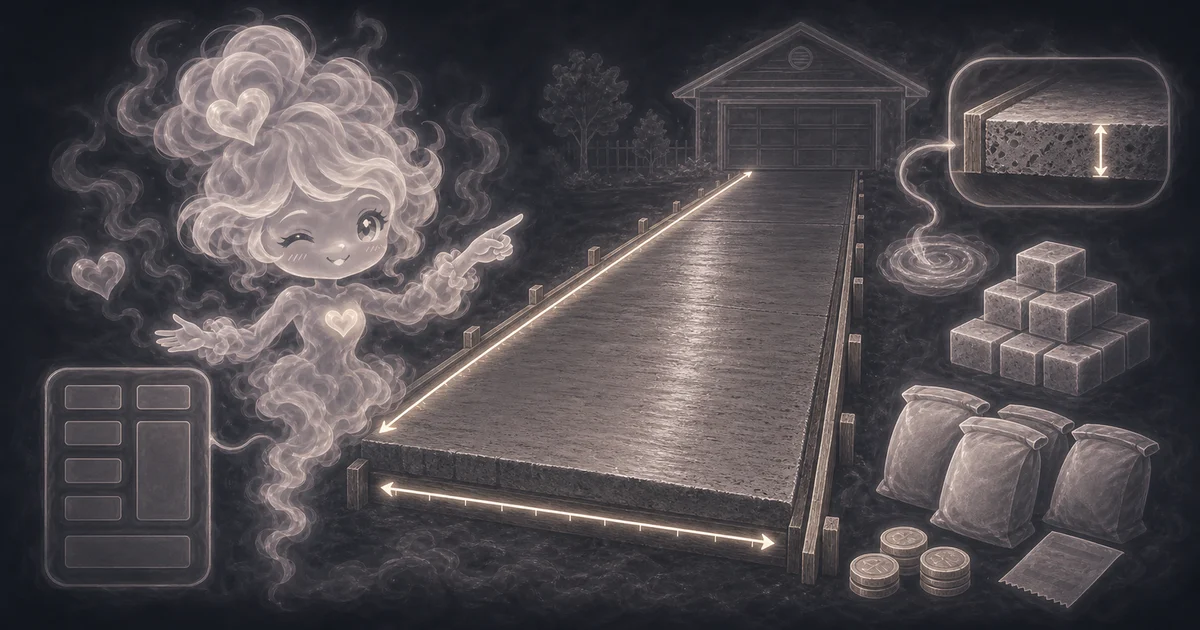
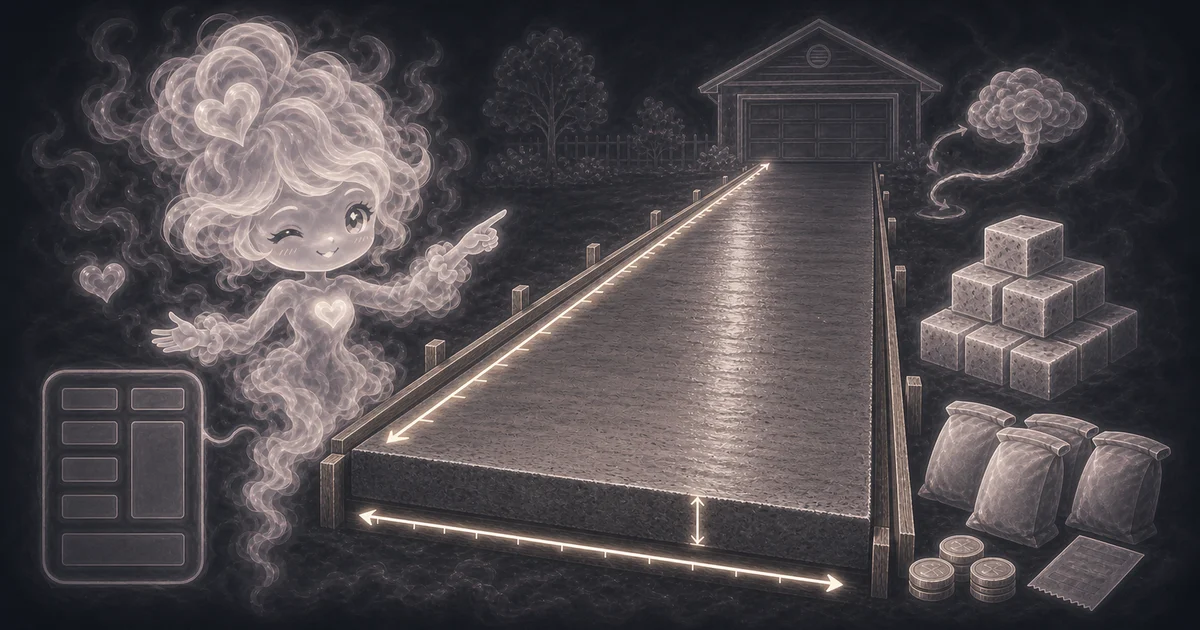
Fix driveway art and add concrete batch images

diff --git a/src/data/toolArtManifest.ts b/src/data/toolArtManifest.ts
@@ -1986,8 +1986,8 @@ export const toolArtManifest = [
     "alt": "Smoke-style kawaii mascot using visual cues for Concrete Footing Calculator in the Home & Projects category.",
     "caption": "A smoke-kawaii visual for the Concrete Footing Calculator tool page.",
     "prompt": "Create one unique G-rated chibi/kawaii image using the established Access Free Tools smoke mascot: a translucent pale grey-white smoky chibi girl with soft wispy hair, expressive manga eyes, tiny hands, a dress-like smoke body, a small heart-shaped chest glow, and a lower floating smoke tail. The mascot is actively presenting the Concrete Footing Calculator as a usable browser utility. The mascot should match the existing approved house style: soft charcoal/dark-slate background, hand-painted luminous smoke lines, gentle blush, white-pink-grey glow, and no purple ghost/spirit redesign. Show the full body character inside the frame, including all hair, smoky wisps, hands, props, and the lower floating smoke tail, with generous padding so nothing is cropped off. Use no readable text, no logos, no brand names, no watermark, no sexualized styling, and no generic abstract fog-only composition. Research the exact tool before generating: use visual details from its real inputs, outputs, formula/logic, examples, and guide notes, not only broad category symbols. The image must clearly represent this specific tool to someone comparing it with nearby related tools. Use visual hints for Home & Projects: house outlines, rulers, buckets, and project material shapes. Specific page concept: Estimate concrete volume and bag counts for straight rectangular footings.. Composition must be distinct for the tool page and usable as a 1200 by 630 web image. The result must look like an intentional character illustration, not a blurry background texture.",
-    "status": "queued",
-    "qaStatus": "not-started"
+    "status": "approved",
+    "qaStatus": "approved"
   },
   {
     "slug": "concrete-footing-calculator",
@@ -2002,8 +2002,8 @@ export const toolArtManifest = [
     "alt": "Smoke-style kawaii mascot explaining Concrete Footing Calculator with concrete footing shapes and guide notes.",
     "caption": "A companion smoke-kawaii visual for the Concrete Footing Calculator guide.",
     "prompt": "Create one unique G-rated chibi/kawaii image using the established Access Free Tools smoke mascot: a translucent pale grey-white smoky chibi girl with soft wispy hair, expressive manga eyes, tiny hands, a dress-like smoke body, a small heart-shaped chest glow, and a lower floating smoke tail. The mascot is explaining the Concrete Footing Calculator concept like a simple visual guide. The mascot should match the existing approved house style: soft charcoal/dark-slate background, hand-painted luminous smoke lines, gentle blush, white-pink-grey glow, and no purple ghost/spirit redesign. Show the full body character inside the frame, including all hair, smoky wisps, hands, props, and the lower floating smoke tail, with generous padding so nothing is cropped off. Use no readable text, no logos, no brand names, no watermark, no sexualized styling, and no generic abstract fog-only composition. Research the exact tool before generating: use visual details from its real inputs, outputs, formula/logic, examples, and guide notes, not only broad category symbols. The image must clearly represent this specific tool to someone comparing it with nearby related tools. Use visual hints for Home & Projects: house outlines, rulers, buckets, and project material shapes. Specific page concept: Estimate concrete volume and bag counts for straight rectangular footings.. Composition must be distinct for the guide/blog page and usable as a 1200 by 630 web image. The result must look like an intentional character illustration, not a blurry background texture.",
-    "status": "queued",
-    "qaStatus": "not-started"
+    "status": "approved",
+    "qaStatus": "approved"
   },
   {
     "slug": "concrete-reinforcing-mesh-calculator",
@@ -2018,8 +2018,8 @@ export const toolArtManifest = [
     "alt": "Smoke-style kawaii mascot using visual cues for Concrete Mesh Calculator in the Home & Projects category.",
     "caption": "A smoke-kawaii visual for the Concrete Mesh Calculator tool page.",
     "prompt": "Create one unique G-rated chibi/kawaii image using the established Access Free Tools smoke mascot: a translucent pale grey-white smoky chibi girl with soft wispy hair, expressive manga eyes, tiny hands, a dress-like smoke body, a small heart-shaped chest glow, and a lower floating smoke tail. The mascot is actively presenting the Concrete Mesh Calculator as a usable browser utility. The mascot should match the existing approved house style: soft charcoal/dark-slate background, hand-painted luminous smoke lines, gentle blush, white-pink-grey glow, and no purple ghost/spirit redesign. Show the full body character inside the frame, including all hair, smoky wisps, hands, props, and the lower floating smoke tail, with generous padding so nothing is cropped off. Use no readable text, no logos, no brand names, no watermark, no sexualized styling, and no generic abstract fog-only composition. Research the exact tool before generating: use visual details from its real inputs, outputs, formula/logic, examples, and guide notes, not only broad category symbols. The image must clearly represent this specific tool to someone comparing it with nearby related tools. Use visual hints for Home & Projects: house outlines, rulers, buckets, and project material shapes. Specific page concept: Estimate reinforcing mesh sheets for a rectangular concrete slab.. Composition must be distinct for the tool page and usable as a 1200 by 630 web image. The result must look like an intentional character illustration, not a blurry background texture.",
-    "status": "queued",
-    "qaStatus": "not-started"
+    "status": "approved",
+    "qaStatus": "approved"
   },
   {
     "slug": "concrete-reinforcing-mesh-calculator",
@@ -2034,8 +2034,8 @@ export const toolArtManifest = [
     "alt": "Smoke-style kawaii mascot explaining Concrete Mesh Calculator with concrete reinforcing mesh shapes and guide notes.",
     "caption": "A companion smoke-kawaii visual for the Concrete Mesh Calculator guide.",
     "prompt": "Create one unique G-rated chibi/kawaii image using the established Access Free Tools smoke mascot: a translucent pale grey-white smoky chibi girl with soft wispy hair, expressive manga eyes, tiny hands, a dress-like smoke body, a small heart-shaped chest glow, and a lower floating smoke tail. The mascot is explaining the Concrete Mesh Calculator concept like a simple visual guide. The mascot should match the existing approved house style: soft charcoal/dark-slate background, hand-painted luminous smoke lines, gentle blush, white-pink-grey glow, and no purple ghost/spirit redesign. Show the full body character inside the frame, including all hair, smoky wisps, hands, props, and the lower floating smoke tail, with generous padding so nothing is cropped off. Use no readable text, no logos, no brand names, no watermark, no sexualized styling, and no generic abstract fog-only composition. Research the exact tool before generating: use visual details from its real inputs, outputs, formula/logic, examples, and guide notes, not only broad category symbols. The image must clearly represent this specific tool to someone comparing it with nearby related tools. Use visual hints for Home & Projects: house outlines, rulers, buckets, and project material shapes. Specific page concept: Estimate reinforcing mesh sheets for a rectangular concrete slab.. Composition must be distinct for the guide/blog page and usable as a 1200 by 630 web image. The result must look like an intentional character illustration, not a blurry background texture.",
-    "status": "queued",
-    "qaStatus": "not-started"
+    "status": "approved",
+    "qaStatus": "approved"
   },
   {
     "slug": "concrete-mix-calculator",
